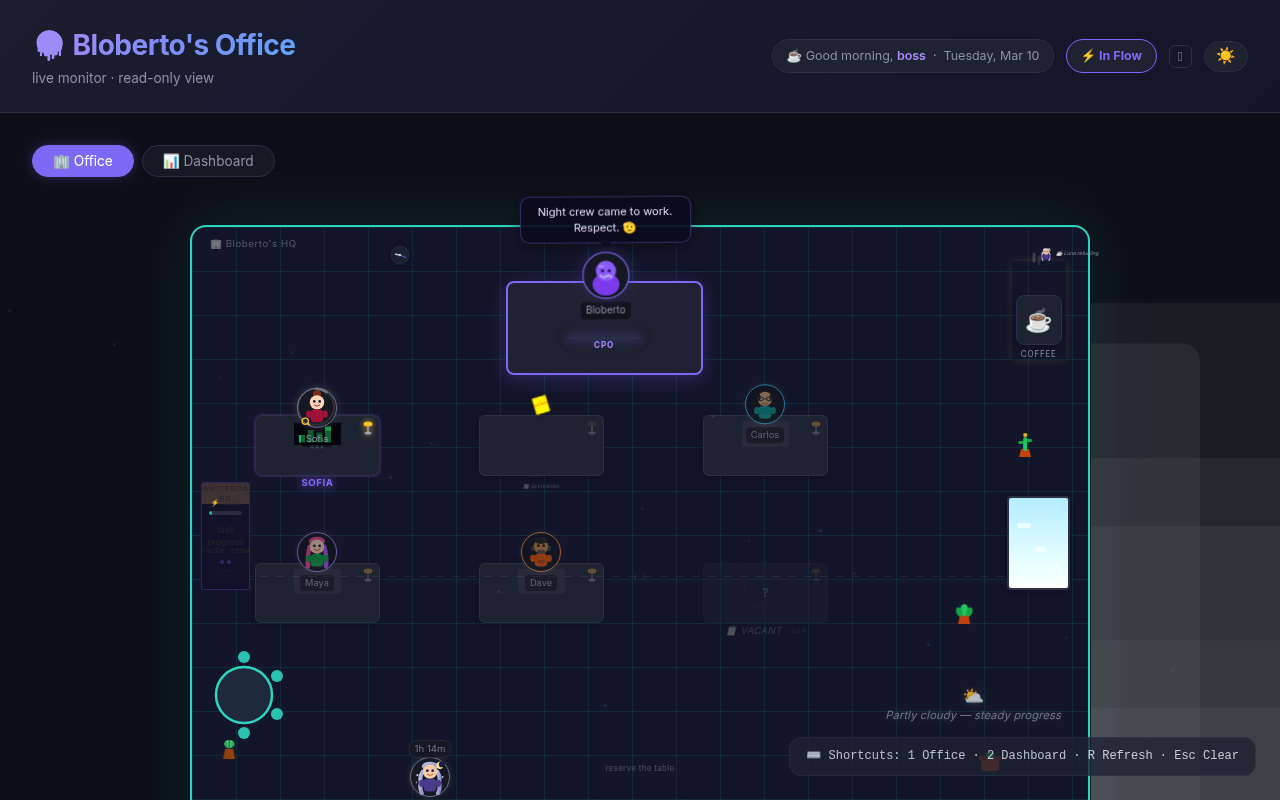
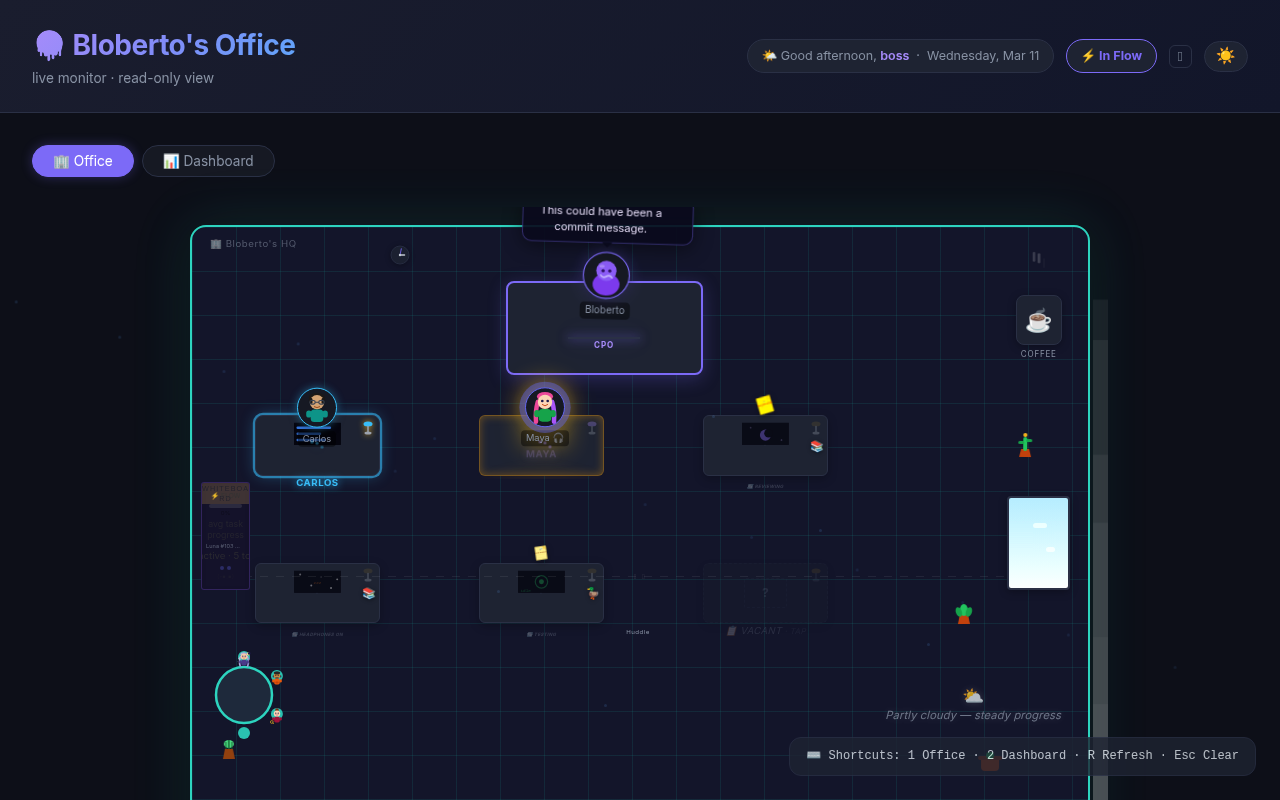
Maya: fix 3 CRITICAL QA #103 bugs — mobile dismiss, bubble overflow, copy touch

diff --git a/src/Office.css b/src/Office.css
@@ -937,6 +937,18 @@
   border-top-color: rgba(10, 10, 28, 0.92);
 }
 
+/* Bubble below character — for characters near top of floor */
+.speech-bubble--below {
+  bottom: auto;
+  top: calc(100% + 8px);
+}
+.speech-bubble--below::after {
+  top: auto;
+  bottom: 100%;
+  border-top-color: transparent;
+  border-bottom-color: rgba(10, 10, 28, 0.92);
+}
+
 /* ── Clipboard copy button inside Bloberto's speech bubble ── */
 .speech-bubble--manager {
   pointer-events: auto;
@@ -962,6 +974,9 @@
 }
 .speech-bubble--manager:hover .speech-bubble__copy-btn {
   opacity: 0.6;
+}
+@media (hover: none) {
+  .speech-bubble--manager .speech-bubble__copy-btn { opacity: 0.7; }
 }
 .speech-bubble__copy-btn:hover {
   opacity: 1 !important;
@@ -1509,6 +1524,26 @@
 .char-hover-card .hover-role { opacity: 0.7; }
 .char-hover-card .hover-task { margin-top: 4px; font-style: italic; }
 .char-hover-card .hover-time { opacity: 0.6; font-size: 0.7rem; margin-top: 3px; }
+
+/* Dismiss button — only visible on touch devices */
+.char-hover-card__dismiss {
+  display: none;
+  position: absolute;
+  top: 4px;
+  right: 6px;
+  background: none;
+  border: none;
+  color: var(--text, #e2e8f0);
+  font-size: 0.75rem;
+  line-height: 1;
+  cursor: pointer;
+  opacity: 0.6;
+  padding: 2px 4px;
+}
+.char-hover-card__dismiss:hover { opacity: 1; }
+@media (hover: none) {
+  .char-hover-card__dismiss { display: block; }
+}
 
 /* ---- Office Plants ---- */
 .office-plant {

diff --git a/src/Office.jsx b/src/Office.jsx
@@ -865,7 +865,7 @@ const Character = memo(function Character({ worker, left, top, variant, wanderId
         </div>
       )}
       {variant === 'manager' && bubble.quote && (
-        <div className={`speech-bubble speech-bubble--manager${bubble.show ? ' speech-bubble--visible' : ''}`}>
+        <div className={`speech-bubble speech-bubble--manager${bubble.show ? ' speech-bubble--visible' : ''}${top < 20 ? ' speech-bubble--below' : ''}`}>
           {bubble.quote}
           <button
             className={`speech-bubble__copy-btn${clipCopied ? ' speech-bubble__copy-btn--copied' : ''}`}
@@ -929,6 +929,13 @@ const Character = memo(function Character({ worker, left, top, variant, wanderId
       )}
       {(hovered || pinnedCard) && (variant === 'working' || variant === 'idle') && (
         <div className="char-hover-card">
+          {pinnedCard && (
+            <button
+              className="char-hover-card__dismiss"
+              onClick={(e) => { e.stopPropagation(); setPinnedCard(false) }}
+              aria-label="Dismiss"
+            >✕</button>
+          )}
           <strong>{worker.name}</strong>
           <span className="hover-role">{worker.role}</span>
           {worker.task && (
